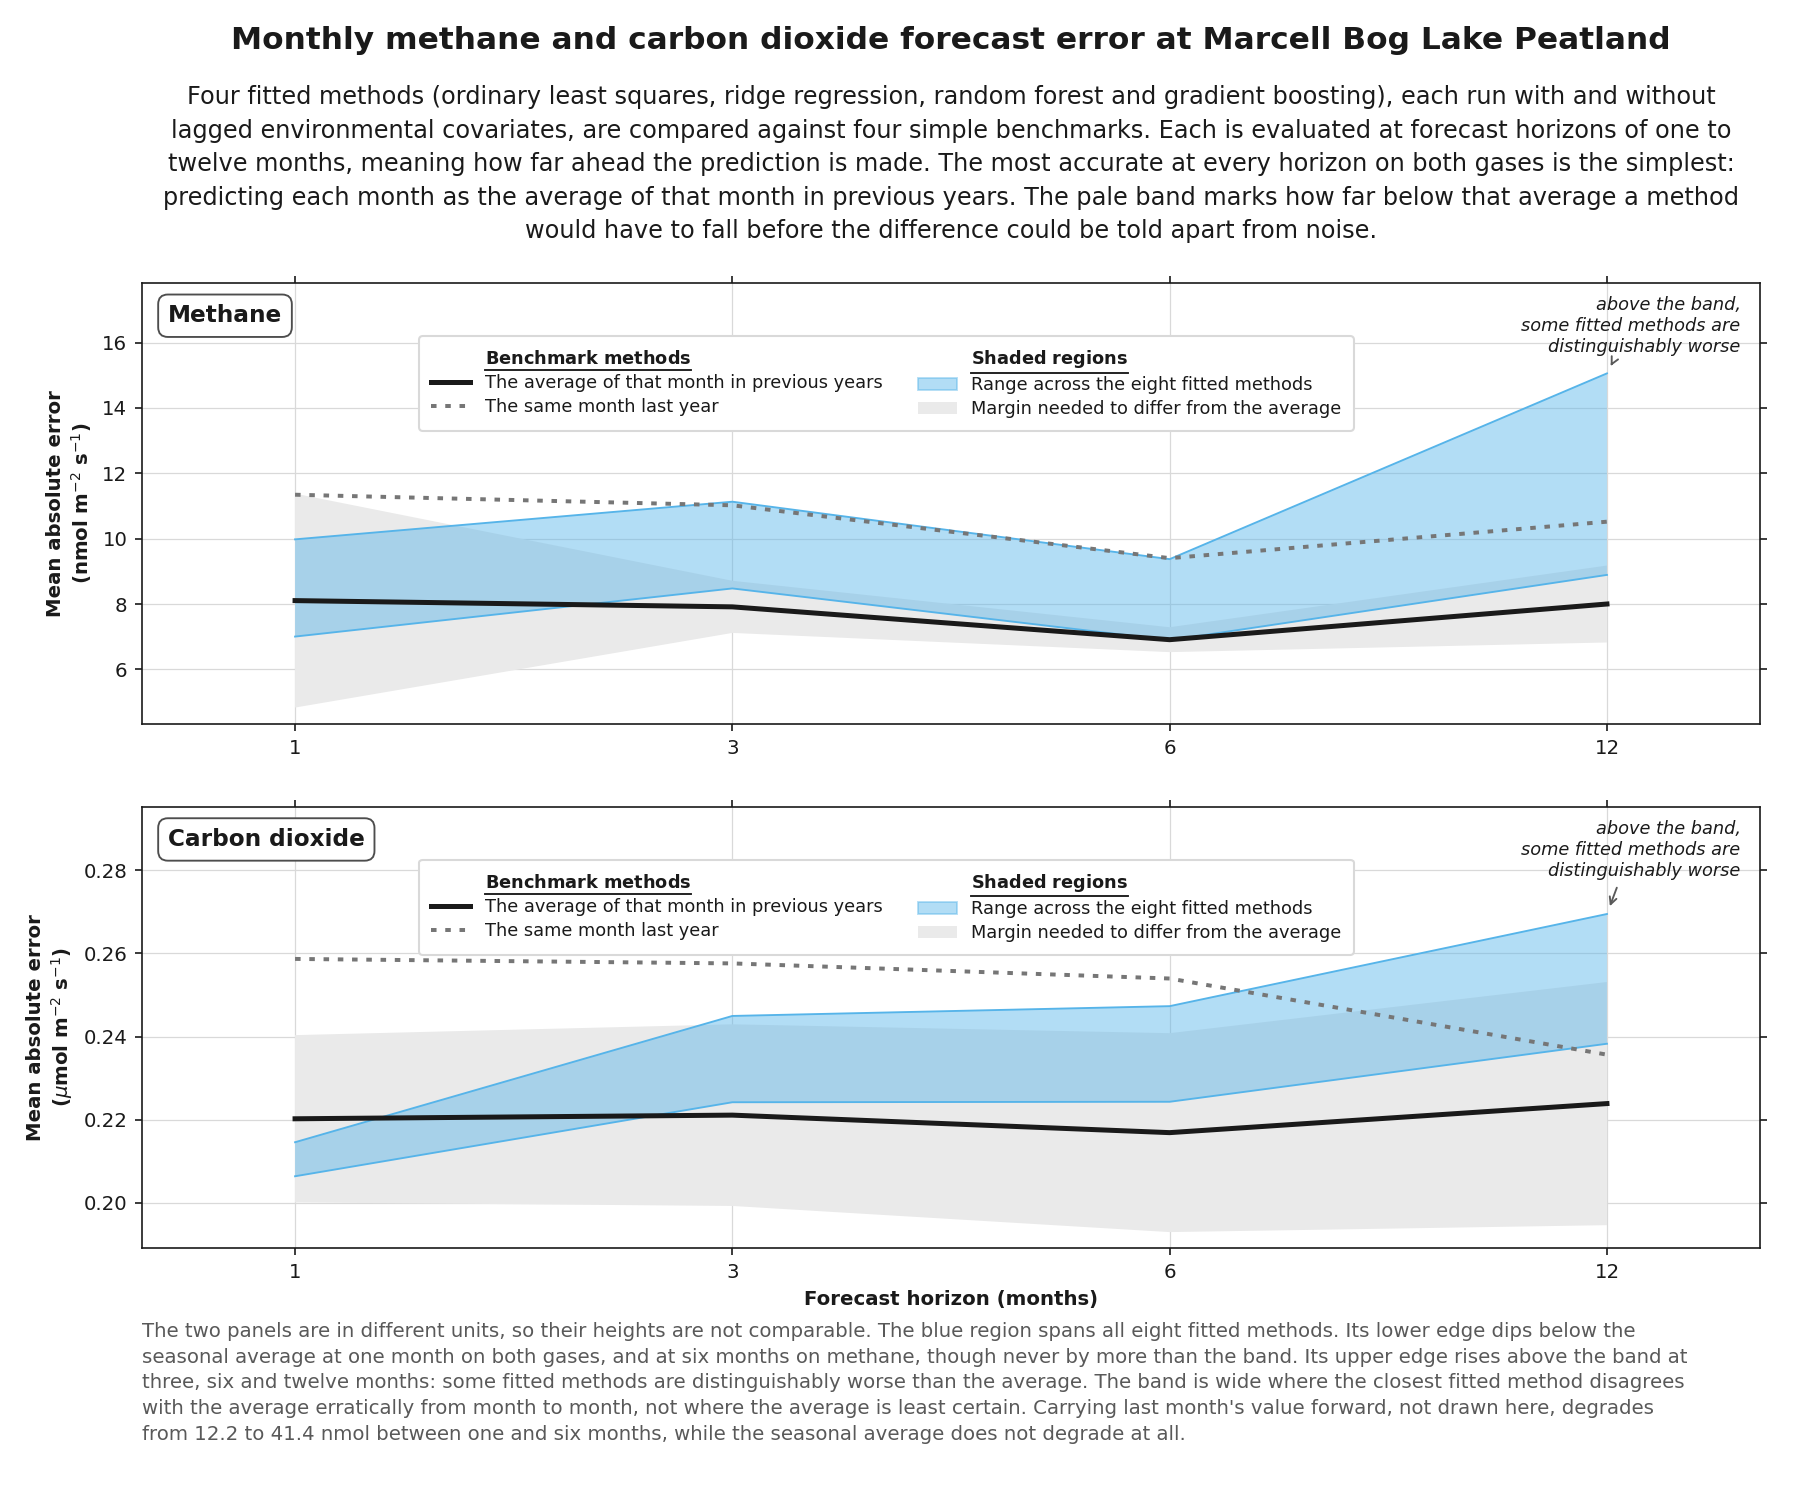
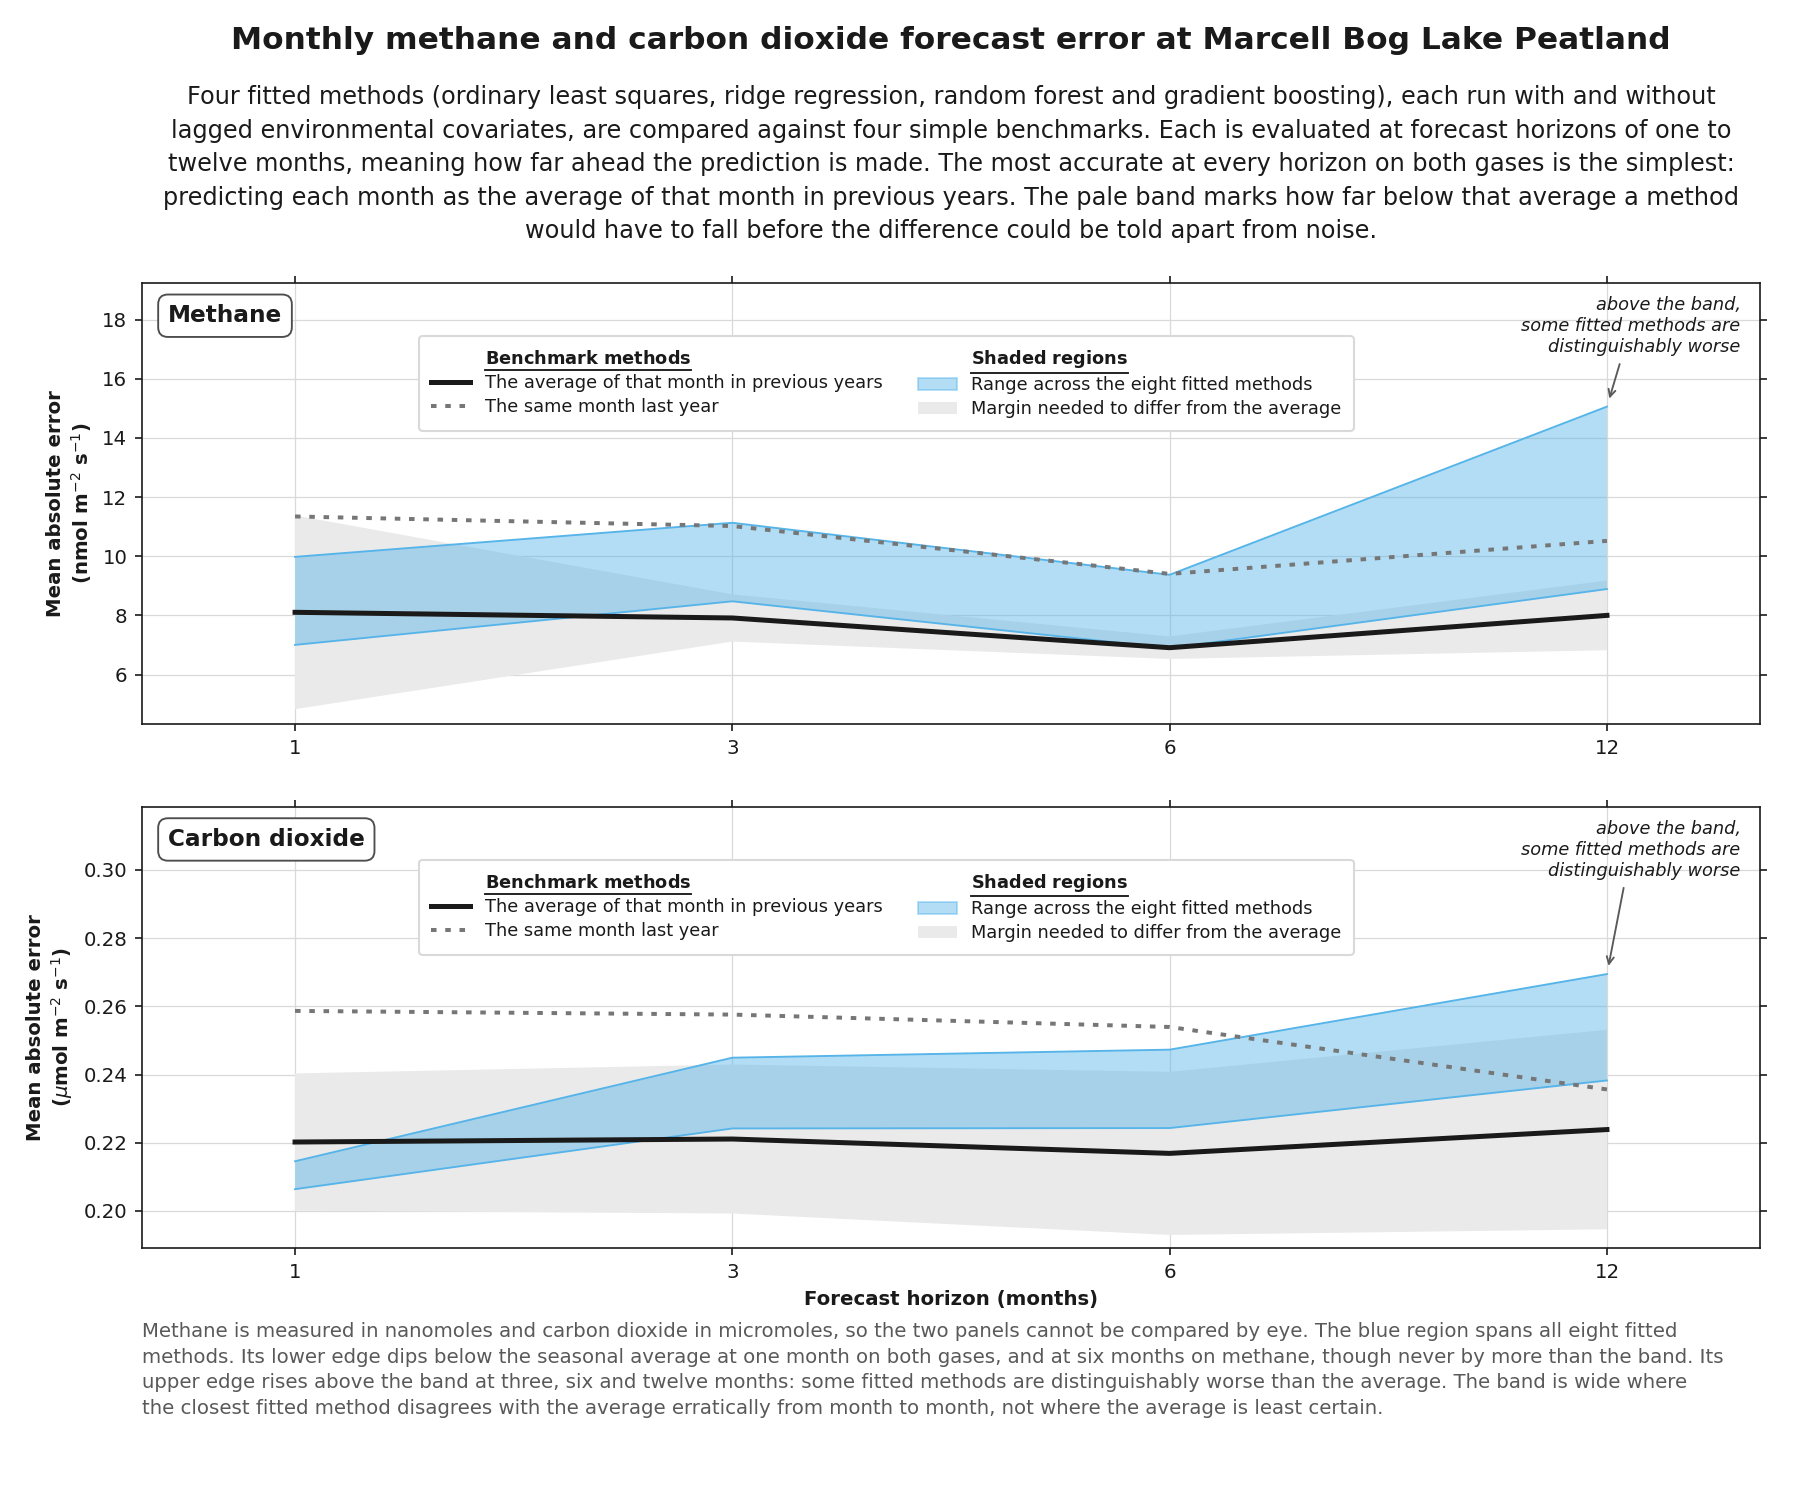
Finish the forecast figure

diff --git a/src/study/figures.py b/src/study/figures.py
@@ -360,17 +360,15 @@ FORECAST_TEXT = ps.FigureText(
         "apart from noise."
     ),
     description=(
-        "The two panels are in different units, so their heights are not "
-        "comparable. The blue region spans all eight fitted methods. Its lower "
-        "edge dips below the seasonal average at one month on both gases, and at "
-        "six months on methane, though never by more than the band. Its upper "
-        "edge rises above the band at three, six and twelve months: some fitted "
-        "methods are distinguishably worse than the average. The band is wide "
-        "where the closest fitted method disagrees with the average erratically "
-        "from month to month, not where the average is least certain. Carrying "
-        "last month's value forward, not drawn here, degrades from 12.2 to 41.4 "
-        "nmol between one and six months, while the seasonal average does not "
-        "degrade at all."
+        "Methane is measured in nanomoles and carbon dioxide in micromoles, so "
+        "the two panels cannot be compared by eye. The blue region spans all "
+        "eight fitted methods. Its lower edge dips below the seasonal average at "
+        "one month on both gases, and at six months on methane, though never by "
+        "more than the band. Its upper edge rises above the band at three, six "
+        "and twelve months: some fitted methods are distinguishably worse than "
+        "the average. The band is wide where the closest fitted method disagrees "
+        "with the average erratically from month to month, not where the average "
+        "is least certain."
     ),
 )
 
@@ -475,36 +473,55 @@ def forecast_comparison(panels: dict[str, pd.DataFrame]) -> Figure:
     return fig
 
 
-def _raise_top_until_furniture_clears(ax, margin: float = 0.02, rounds: int = 8) -> None:
-    """Grow the axis upward until nothing drawn over it covers a series.
+#: Where the annotation's target sits in the panel, as a share of its height.
+#: The note is anchored near the top, so holding its target here leaves a leader
+#: long enough for the arrowhead to read. Set rather than measured: an
+#: Annotation's window extent covers its arrow as well as its text, so sizing the
+#: arrow from that extent is circular and does not converge.
+ANNOTATION_TARGET_SHARE = 0.72
 
-    Checks the legend and every annotation, not the legend alone: fixing one and
-    not the other moved the collision rather than removing it. How much room the
-    furniture needs depends on its rendered size and on how high the series run
-    beneath it, which differ between the gases, so it is measured and corrected
-    rather than padded by hand.
+#: Pixels of clear space between the legend and the nearest series beneath it.
+#: In pixels rather than as a share of the data range, which would grow with the
+#: range it is used to enlarge. Carbon dioxide's benchmark line runs high in its
+#: panel, so this is what separates the two; matching methane's much larger gap
+#: exactly would compress the carbon dioxide comparison into half its panel.
+LEGEND_CLEARANCE_PX = 60
+
+
+def _raise_top_until_furniture_clears(ax, rounds: int = 8) -> None:
+    """Grow the axis upward until the legend clears the series and the leader shows.
+
+    The legend and the note are both anchored in axes fractions, so raising the
+    top moves the data away from them. Two requirements: the legend keeps a fixed
+    pixel gap above the highest series beneath it, and the note's target sits at a
+    fixed share of the panel height, which is what gives the arrow its length.
     """
     for _ in range(rounds):
         ax.figure.canvas.draw()
-        boxes = [ax.get_legend().get_window_extent()]
-        boxes += [text.get_window_extent() for text in ax.texts
-                  if "above the band" in text.get_text()]
-        worst = 0.0
         low, high = ax.get_ylim()
-        for pixels in boxes:
-            box = pixels.transformed(ax.transData.inverted())
-            highest = -np.inf
-            for line in ax.lines:
-                x = np.asarray(line.get_xdata(), dtype=float)
-                y = np.asarray(line.get_ydata(), dtype=float)
-                under = (x >= box.x0) & (x <= box.x1)
-                if under.any():
-                    highest = max(highest, float(y[under].max()))
-            if highest > -np.inf:
-                worst = max(worst, highest + margin * (high - low) - box.y0)
-        if worst <= 0:
+        frame = ax.get_window_extent()
+        needed = high - low
+
+        legend = ax.get_legend().get_window_extent()
+        box = legend.transformed(ax.transData.inverted())
+        highest = -np.inf
+        for line in ax.lines:
+            x = np.asarray(line.get_xdata(), dtype=float)
+            y = np.asarray(line.get_ydata(), dtype=float)
+            under = (x >= box.x0) & (x <= box.x1)
+            if under.any():
+                highest = max(highest, float(y[under].max()))
+        share = (legend.y0 - frame.y0 - LEGEND_CLEARANCE_PX) / frame.height
+        if highest > -np.inf and share > 0:
+            needed = max(needed, (highest - low) / share)
+
+        for note in ax.texts:
+            if "above the band" in note.get_text():
+                needed = max(needed, (note.xy[1] - low) / ANNOTATION_TARGET_SHARE)
+
+        if needed <= (high - low) * 1.001:
             return
-        ax.set_ylim(low, high + worst)
+        ax.set_ylim(low, low + needed)
 
 
 def _forecast_legend(ax) -> None:

diff --git a/tests/test_forecast_figure.py b/tests/test_forecast_figure.py
@@ -257,18 +257,50 @@ def test_the_panel_name_is_larger_than_a_legend_entry():
     ps.plt.close(fig)
 
 
-def test_the_description_quotes_the_persistence_values_the_data_holds():
-    """The text states what the panel no longer draws, so it has to be checked.
+def test_the_figure_does_not_describe_a_series_it_does_not_draw():
+    """Persistence is scored and recorded in the notes, not narrated on the panel."""
+    words = figures.FORECAST_TEXT.description + figures.FORECAST_TEXT.subtitle
+    assert "carrying last month" not in words.lower()
+    assert "41.4" not in words
 
-    This is the one test here that reads the scored forecasts rather than a
-    synthetic frame, because that is the thing being checked.
-    """
-    table = real_panel("methane")
+
+def test_the_units_caveat_names_the_units():
+    """An abstract "different units" leaves a reader to work out which."""
     said = figures.FORECAST_TEXT.description
-    at_one = table.loc[table["horizon"] == 1, "naive"].iloc[0]
-    at_six = table.loc[table["horizon"] == PERSISTENCE_LAST, "naive"].iloc[0]
-    assert f"{at_one:.1f}" in said, f"subtitle should quote {at_one:.1f}"
-    assert f"{at_six:.1f}" in said, f"subtitle should quote {at_six:.1f}"
+    assert "nanomole" in said and "micromole" in said
+
+
+def test_the_annotation_target_sits_low_enough_to_show_its_arrow():
+    tables = {key: real_panel(key) for key, _, _ in figures.GAS_PANEL}
+    fig = figures.forecast_comparison(tables)
+    fig.canvas.draw()
+    for ax in fig.axes:
+        note = next(a for a in ax.texts if "above the band" in a.get_text())
+        frame = ax.get_window_extent()
+        share = (ax.transData.transform(note.xy)[1] - frame.y0) / frame.height
+        # At or below the share, never above it: the legend's clearance can push
+        # the target lower still, which only lengthens the arrow.
+        assert share <= figures.ANNOTATION_TARGET_SHARE + 0.02
+    ps.plt.close(fig)
+
+
+def test_the_legend_keeps_its_clearance_on_both_panels():
+    tables = {key: real_panel(key) for key, _, _ in figures.GAS_PANEL}
+    fig = figures.forecast_comparison(tables)
+    fig.canvas.draw()
+    for ax in fig.axes:
+        legend = ax.get_legend().get_window_extent()
+        box = legend.transformed(ax.transData.inverted())
+        highest = -np.inf
+        for line in ax.lines:
+            x = np.asarray(line.get_xdata(), dtype=float)
+            y = np.asarray(line.get_ydata(), dtype=float)
+            under = (x >= box.x0) & (x <= box.x1)
+            if under.any():
+                highest = max(highest, float(y[under].max()))
+        gap = legend.y0 - ax.transData.transform((0, highest))[1]
+        assert gap >= figures.LEGEND_CLEARANCE_PX - 1
+    ps.plt.close(fig)
 
 
 # --- the palette ------------------------------------------------------------

diff --git a/notes/study.md b/notes/study.md
@@ -1597,16 +1597,36 @@ close to the average to tell apart" described the methods that fall in the band
 rather than the region itself, which is why it read oddly as a key entry. It now
 reads "Margin needed to differ from the average", which is what the region is.
 
+**The description names the units rather than saying they differ.** "The two
+panels are in different units" leaves a reader to work out which and why it
+matters; the panel now says methane is in nanomoles and carbon dioxide in
+micromoles, so the two cannot be compared by eye. The persistence sentence was
+cut from the figure entirely: it described a series the panel does not draw, and
+these notes carry it.
+
 **The headroom is measured rather than fixed, and for every piece of furniture.**
 How much room is needed depends on the furniture's rendered size and on how high
 the series run beneath it, which differ between the gases: a pad chosen by hand
 gave methane visible empty space and still left carbon dioxide overlapping its
 seasonal line by a thousandth of a unit. Correcting the legend alone then moved
 the collision onto the annotation rather than removing it, so
-`_raise_top_until_furniture_clears` grows the axis until the legend, the panel
-name and the annotation all sit clear, and a test walks every line in every panel
-against each of them. A second test asserts the furniture does not overlap
-itself.
+`_raise_top_until_furniture_clears` grows the axis until the legend keeps a fixed
+pixel gap above the nearest series and the annotation's target sits at a fixed
+share of the panel height, which is what gives its arrow length.
+
+**Two things about that loop are worth recording, because both diverged first.**
+The clearance was initially a share of the data range, so each enlargement raised
+the requirement that had prompted it and the axis ran away. It is a pixel
+quantity now. The arrow length was initially measured from the annotation's own
+window extent, which for an `Annotation` **covers the arrow as well as the text**,
+so sizing the arrow from it is circular; both panels stayed at ten pixels while
+the axis grew fourfold. The target's position is set rather than measured.
+
+Carbon dioxide's benchmark line runs high in its panel, so the legend clearance
+is what separates them, and it is the binding constraint there rather than the
+annotation. Matching methane's much larger gap exactly would compress the carbon
+dioxide comparison into half its panel, so the clearance is set to sixty pixels
+rather than to whatever methane happens to have.
 
 **The panels are stacked rather than side by side, and the legend forced it.**
 Naming the benchmarks by what they do rather than by their jargon makes the

diff --git a/figures/README_fragments.md b/figures/README_fragments.md
@@ -28,4 +28,4 @@ Each marker is one year's emission in grams of carbon per square meter, from rel
 
 **Four fitted methods (ordinary least squares, ridge regression, random forest and gradient boosting), each run with and without lagged environmental covariates, are compared against four simple benchmarks. Each is evaluated at forecast horizons of one to twelve months, meaning how far ahead the prediction is made. The most accurate at every horizon on both gases is the simplest: predicting each month as the average of that month in previous years. The pale band marks how far below that average a method would have to fall before the difference could be told apart from noise.**
 
-The two panels are in different units, so their heights are not comparable. The blue region spans all eight fitted methods. Its lower edge dips below the seasonal average at one month on both gases, and at six months on methane, though never by more than the band. Its upper edge rises above the band at three, six and twelve months: some fitted methods are distinguishably worse than the average. The band is wide where the closest fitted method disagrees with the average erratically from month to month, not where the average is least certain. Carrying last month's value forward, not drawn here, degrades from 12.2 to 41.4 nmol between one and six months, while the seasonal average does not degrade at all.
+Methane is measured in nanomoles and carbon dioxide in micromoles, so the two panels cannot be compared by eye. The blue region spans all eight fitted methods. Its lower edge dips below the seasonal average at one month on both gases, and at six months on methane, though never by more than the band. Its upper edge rises above the band at three, six and twelve months: some fitted methods are distinguishably worse than the average. The band is wide where the closest fitted method disagrees with the average erratically from month to month, not where the average is least certain.
